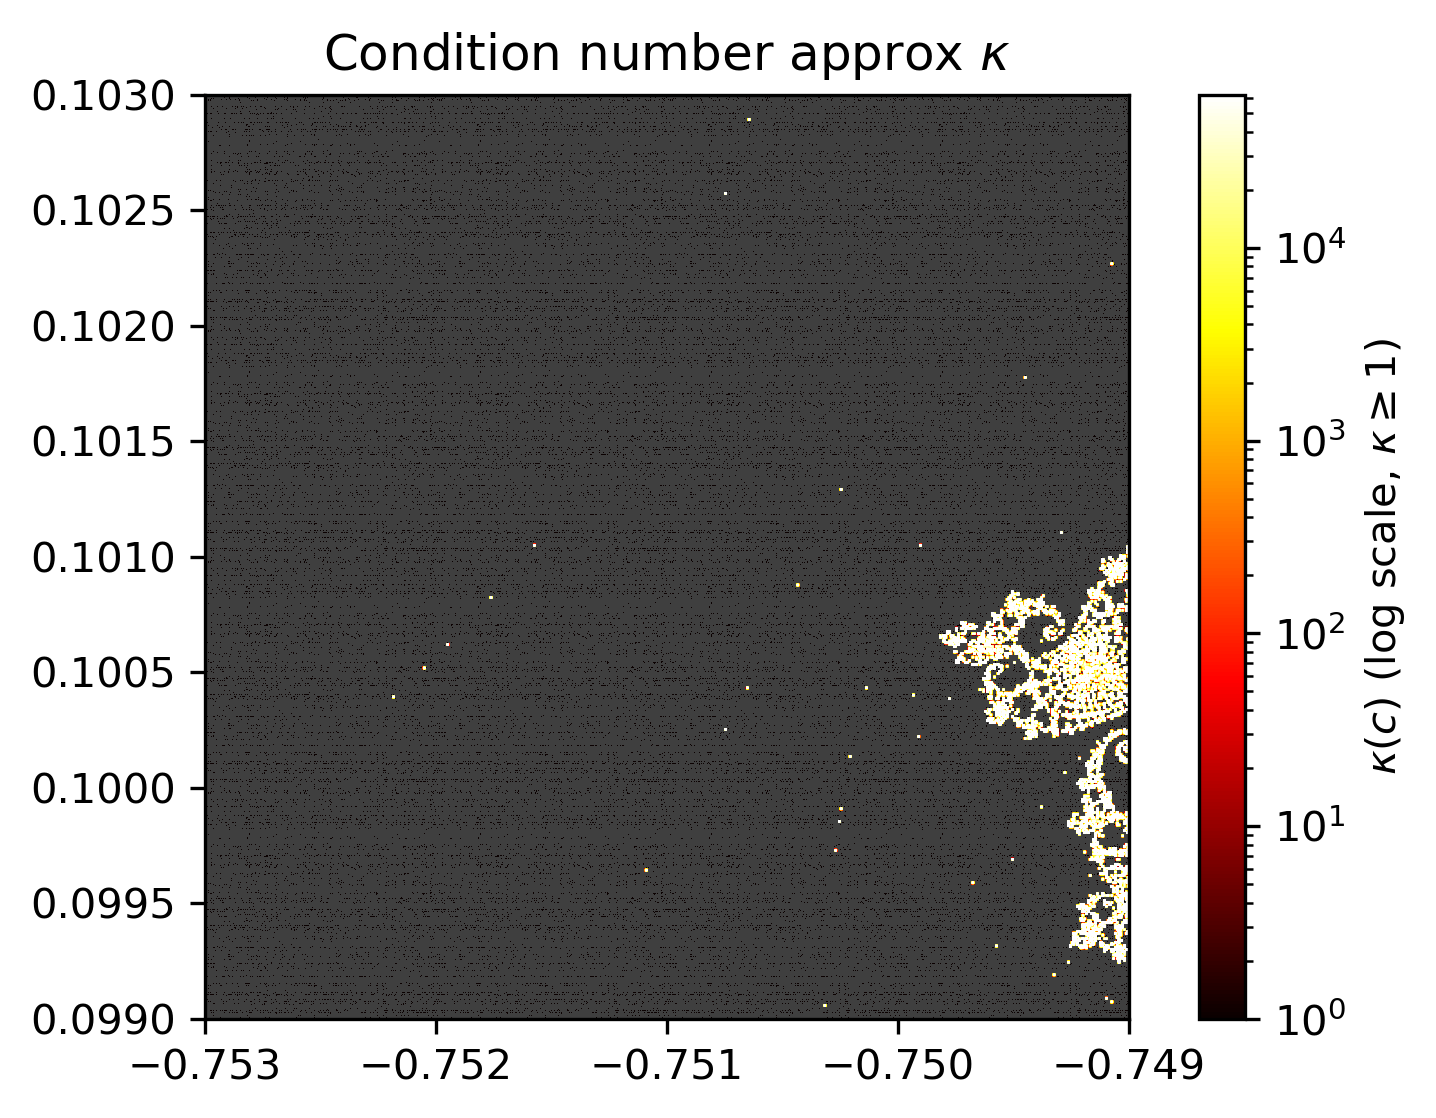
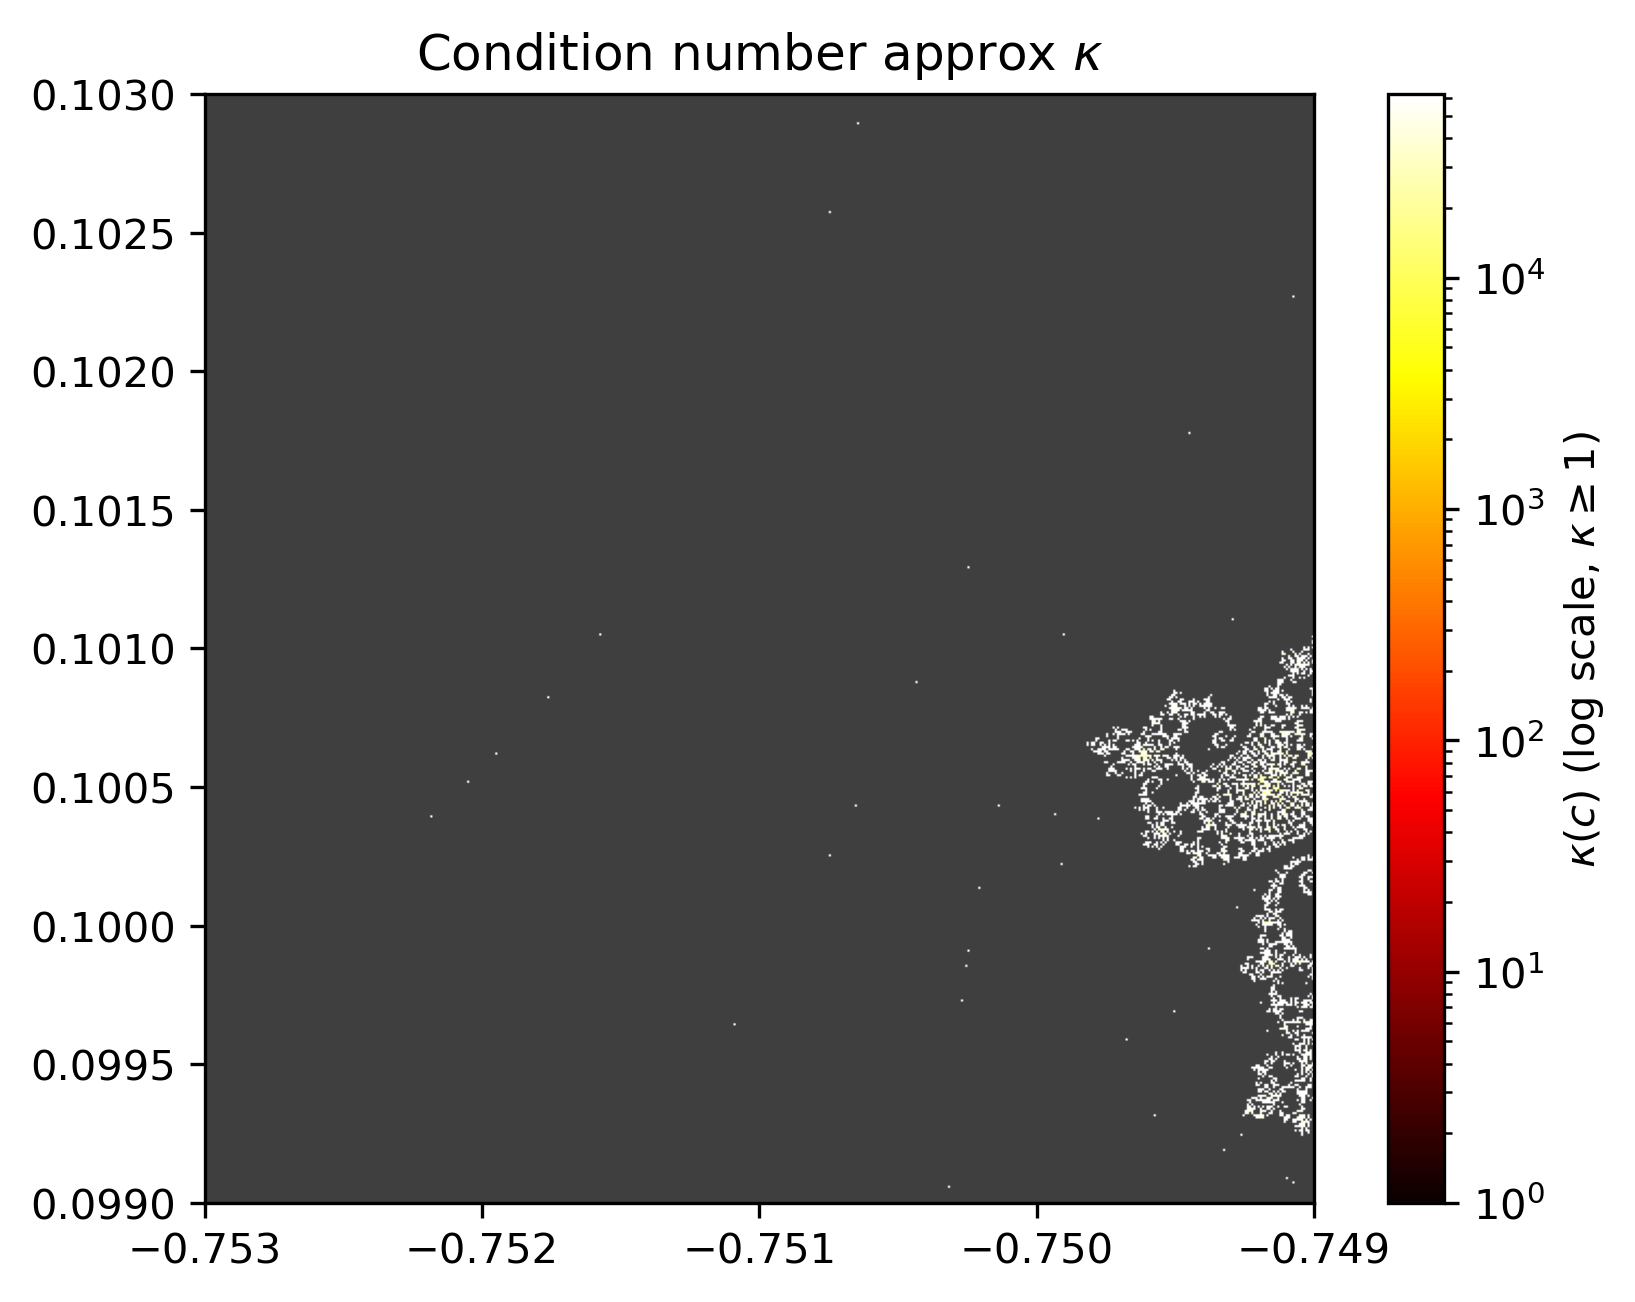
added test suit

Changed region(s): [[0.0, 0.0304, 0.9805, 0.9732]]

diff --git a/test_MandelbrotMP3.py b/test_MandelbrotMP3.py
@@ -1,0 +1,112 @@
+import numpy as np
+import pytest
+from mandelbrot import mandelbrot_set
+
+
+# ---------------------------------------------------------------------------
+# Helper: run mandelbrot_set on a single point and return its iteration count
+# ---------------------------------------------------------------------------
+def single_point(c: complex, max_iter: int = 100) -> int:
+    """Evaluate mandelbrot_set on a 1×1 grid centred on c."""
+    M = mandelbrot_set(
+        x_min=c.real, x_max=c.real,
+        y_min=c.imag, y_max=c.imag,
+        width=1, height=1,
+        max_iter=max_iter,
+    )
+    return int(M[0, 0])
+
+
+# ---------------------------------------------------------------------------
+# Test 1 — points INSIDE the set reach max_iter
+# ---------------------------------------------------------------------------
+def test_interior_points_reach_max_iter():
+    """
+    Well-known interior points must iterate all the way to max_iter,
+    meaning they never escaped — they are IN the set.
+    """
+    max_iter = 50
+    interior_points = [
+        0 + 0j,       # origin
+        -1 + 0j,      # period-2 bulb centre
+        -0.5 + 0j,    # main cardioid interior
+    ]
+    for c in interior_points:
+        count = single_point(c, max_iter=max_iter)
+        assert count == max_iter, (
+            f"Expected {c} to stay in set (count={max_iter}), got {count}"
+        )
+
+
+# ---------------------------------------------------------------------------
+# Test 2 — points OUTSIDE the set escape before max_iter
+# ---------------------------------------------------------------------------
+def test_exterior_points_escape():
+    """
+    Points far outside the set must escape well before max_iter.
+    The escape condition is |z| > 2, so c=10+0j escapes on iteration 1.
+    """
+    max_iter = 100
+    exterior_points = [
+        10 + 0j,
+        0 + 10j,
+        5 + 5j,
+    ]
+    for c in exterior_points:
+        count = single_point(c, max_iter=max_iter)
+        assert count < max_iter, (
+            f"Expected {c} to escape, but got count={count}"
+        )
+
+
+# ---------------------------------------------------------------------------
+# Test 3 — output grid has the correct shape
+# ---------------------------------------------------------------------------
+def test_output_shape():
+    """mandelbrot_set must return an array of shape (height, width)."""
+    M = mandelbrot_set(-2, 1, -1.5, 1.5, width=80, height=60, max_iter=50)
+    assert M.shape == (60, 80), f"Expected (60, 80), got {M.shape}"
+
+
+# ---------------------------------------------------------------------------
+# Test 4 — iteration counts are bounded between 0 and max_iter (inclusive)
+# ---------------------------------------------------------------------------
+def test_iteration_counts_in_valid_range():
+    """Every value in M must satisfy 0 <= value <= max_iter."""
+    max_iter = 40
+    M = mandelbrot_set(-2, 1, -1.5, 1.5, width=50, height=50, max_iter=max_iter)
+    assert M.min() >= 0,        f"Found negative iteration count: {M.min()}"
+    assert M.max() <= max_iter, f"Count exceeded max_iter: {M.max()}"
+
+
+# ---------------------------------------------------------------------------
+# Test 5 — @pytest.mark.parametrize across known (point → expected) pairs
+# ---------------------------------------------------------------------------
+@pytest.mark.parametrize("c, in_set", [
+    # Inside the set → should hit max_iter
+    (0 + 0j,          True),   # origin
+    (-1 + 0j,         True),   # period-2 bulb
+    (-0.5 + 0.5j,     True),   # main cardioid, upper half
+
+    # Outside the set → should escape before max_iter
+    (2 + 0j,          False),  # boundary/outside
+    (0 + 2j,          False),  # boundary/outside
+    (-2.5 + 0j,       False),  # left of the set
+    (1 + 1j,          False),  # upper-right quadrant
+])
+def test_known_points(c, in_set):
+    """
+    Spot-check mathematically known points.
+    in_set=True  → iteration count must equal max_iter  (never escaped)
+    in_set=False → iteration count must be  < max_iter  (did escape)
+    """
+    max_iter = 200   # high enough to be confident for boundary-ish points
+    count = single_point(c, max_iter=max_iter)
+    if in_set:
+        assert count == max_iter, (
+            f"{c} should be IN the set but escaped at iteration {count}"
+        )
+    else:
+        assert count < max_iter, (
+            f"{c} should be OUTSIDE the set but reached max_iter={max_iter}"
+        )

diff --git a/MandelbrotMP3.py b/MandelbrotMP3.py
@@ -1,0 +1,20 @@
+import numpy as np
+
+def mandelbrot_set(x_min, x_max, y_min, y_max, width, height):
+    x = np.linspace(x_min, x_max, width)
+    y = np.linspace(y_min, y_max, height)
+
+    X, Y = np.meshgrid(x, y)
+
+    C= X + 1j*Y
+    
+    Z = np.zeros_like(C)  
+    M = np.zeros((height, width), dtype=int)  
+    
+    for n in range(max_iter):
+        mask = np.abs(Z) <= 2
+        
+        Z[mask] = Z[mask]**2 + C[mask]
+        
+        M[mask] += 1
+    return M
